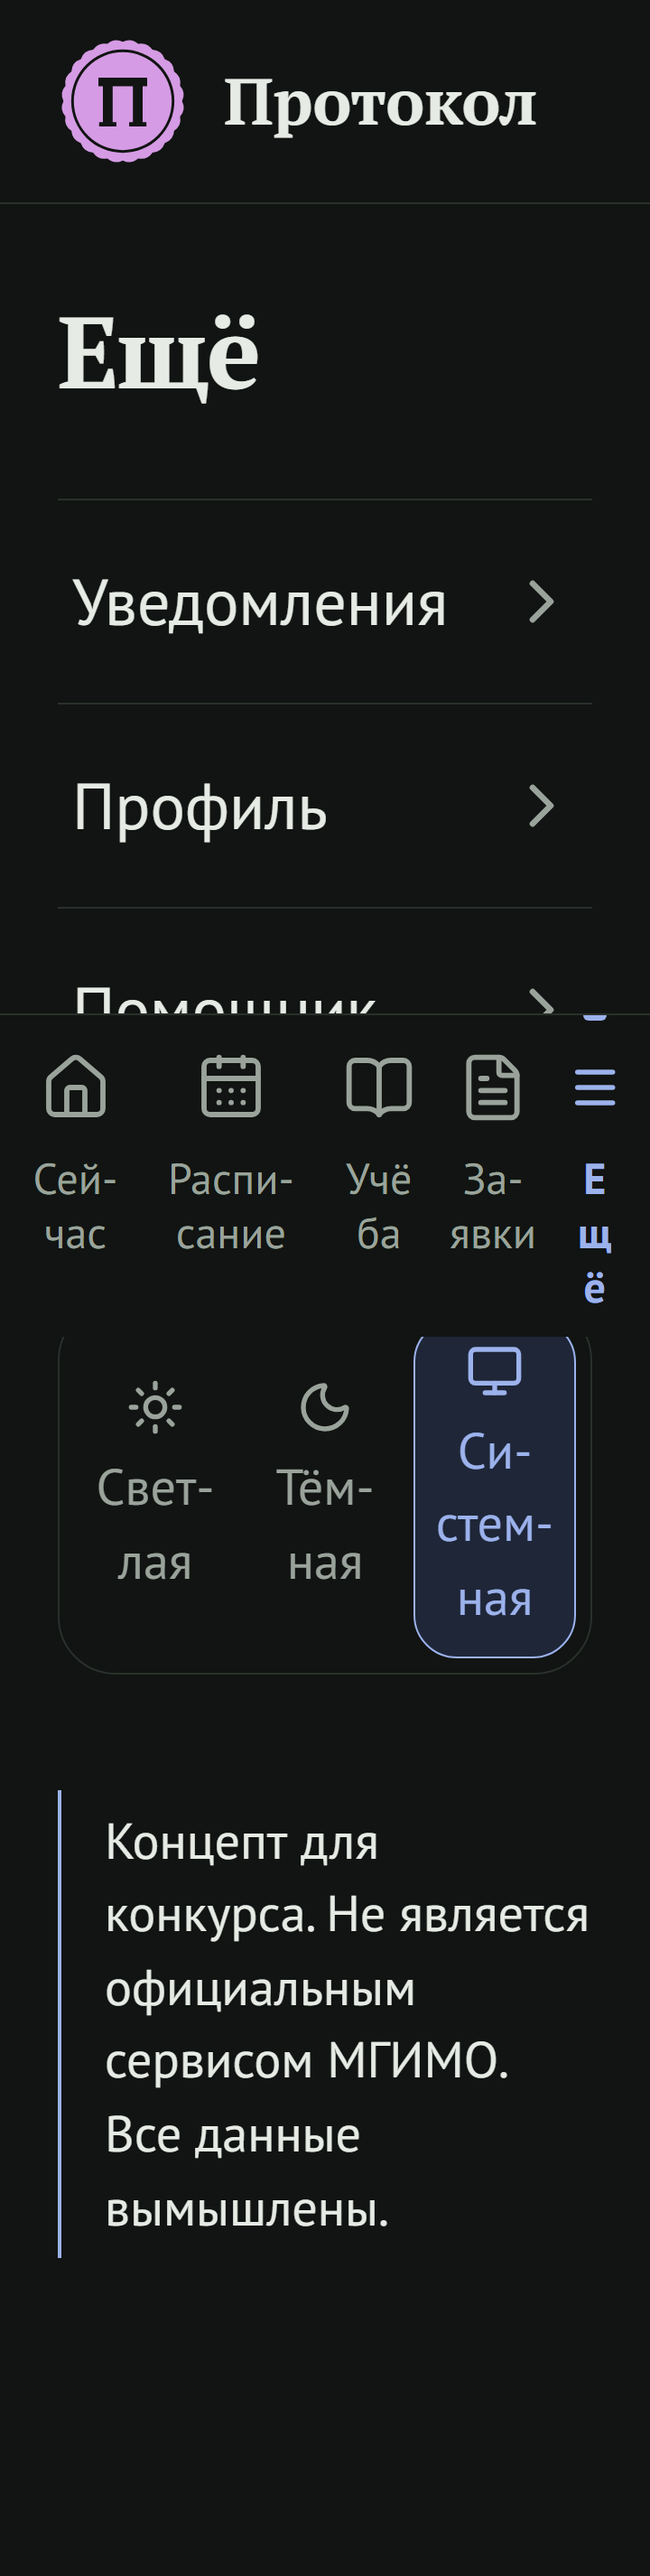
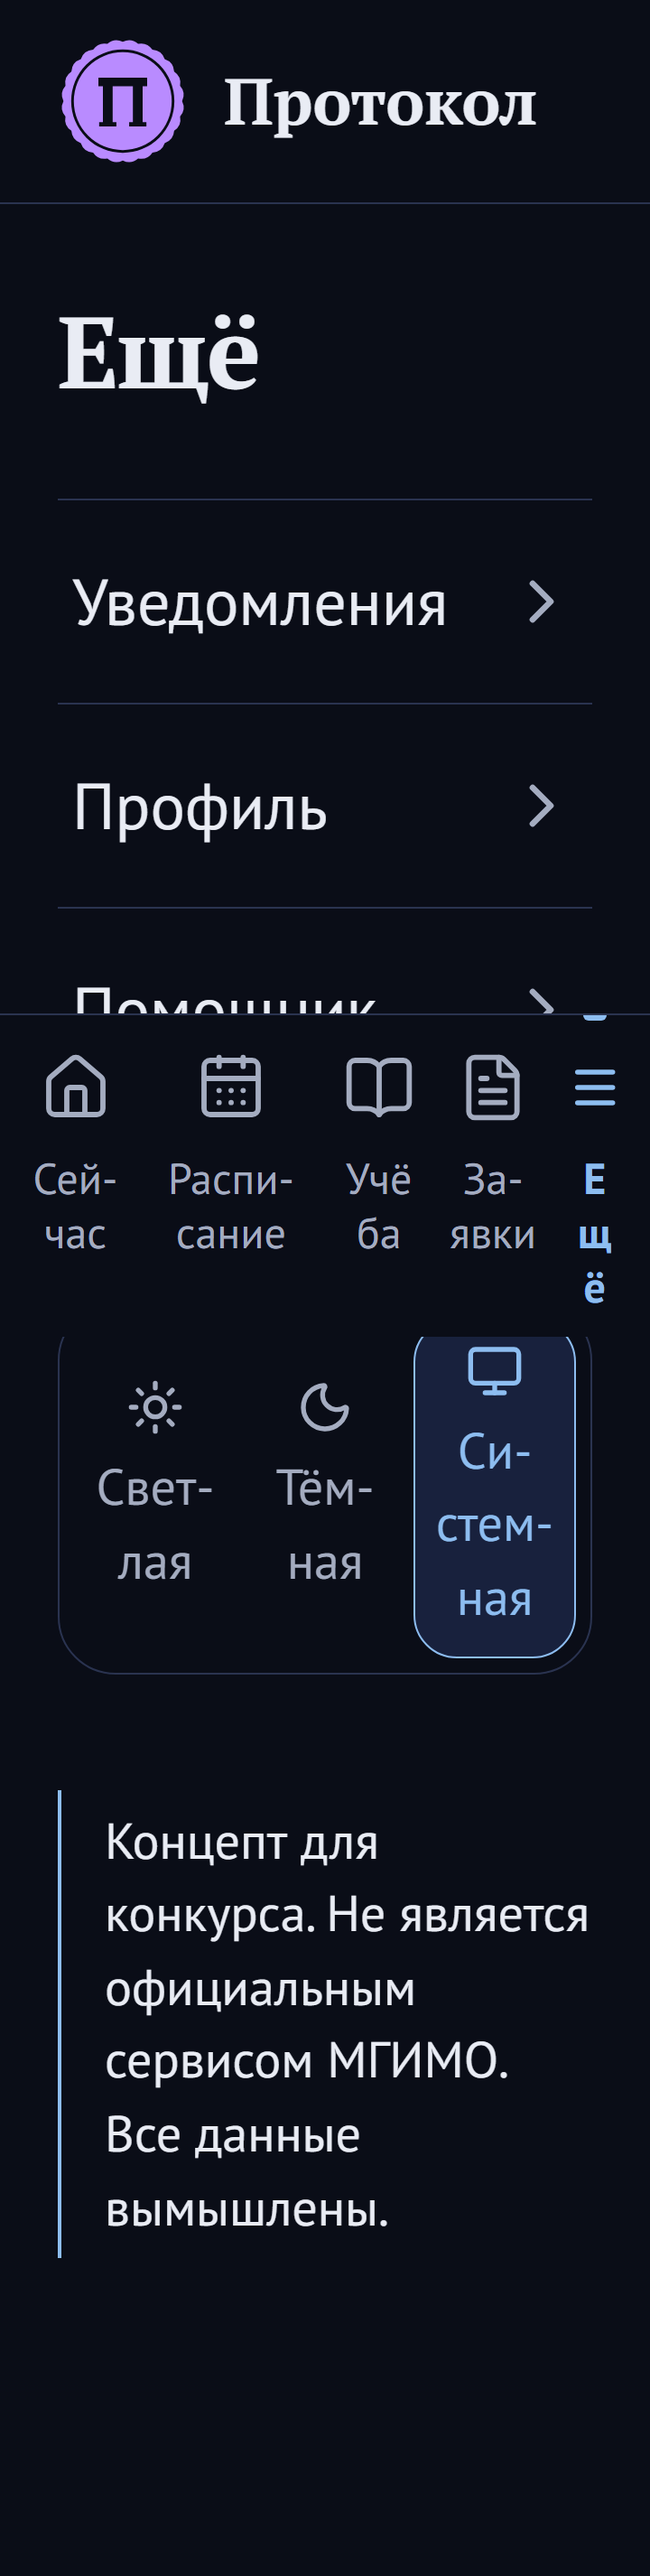
docs: тёмная тема «Чернила ночью» в 04-design, варианты тёмной темы, журнал

diff --git a/docs/04-design.md b/docs/04-design.md
@@ -6,21 +6,21 @@
 
 ## Токены (CSS-переменные в `src/app/globals.css`, Tailwind v4 `@theme`)
 
-Палитра **«Бланк»** (решение человека 06.11, взамен «бумага-крем + винная печать»; прежние значения — в истории git и на `docs/process/screenshots/04-T04-palette-variants.png`). Холодная бумага бланка, чернила, фиолетовая штемпельная печать — как на настоящих справках.
+Палитра **«Бланк»** (решение человека 06.11, взамен «бумага-крем + винная печать»; прежние значения — в истории git и на `docs/process/screenshots/04-T04-palette-variants.png`). Холодная бумага бланка, чернила, фиолетовая штемпельная печать — как на настоящих справках. Тёмная тема — **«Чернила ночью»** (решение человека 06.11): глубокий чернильно-синий фон и бумажно-белый текст — те же бланк и чернила, только наоборот; темнее, но контраст выше, чем в светлой (минимум текста 6.2:1), линии и рамки полей видны отчётливее.
 
 | Токен | Светлая | Тёмная | Назначение |
 |---|---|---|---|
-| `--bg` | `#EEF1EC` (бумага бланка) | `#111412` | фон страницы |
-| `--surface` | `#FBFCFA` | `#1A1E1B` | карточки, поля ввода |
-| `--ink` | `#161A17` | `#E7EBE5` | основной текст |
-| `--muted` | `#5B635C` | `#9AA39B` | вторичный текст (в коде — `--ink-muted`) |
-| `--line` | `#D6DBD2` | `#2A302B` | границы |
-| `--brand` | `#22356B` (чернила) | `#9CB2EC` | акцент, активные элементы |
-| `--brand-soft` | `#E1E7F2` | `#1E2638` | фон акцентных плашек |
-| `--ok` | `#2A7348` | `#5CC48A` | зачтено, готово |
-| `--warn` | `#8A5300` | `#F0B14A` | перенос, риск |
-| `--danger` | `#AE2620` | `#F2867E` | отмена, долг |
-| `--seal` | `#55389A` (штемпельные чернила) | `#D59BE4` | печать: только логотип и статус «Выдана». Фиолетовая, чтобы «Выдана» не путалась с ошибкой: прежняя винная печать почти совпадала с `--danger` |
+| `--bg` | `#EEF1EC` (бумага бланка) | `#0A0D17` | фон страницы |
+| `--surface` | `#FBFCFA` | `#121726` | карточки, поля ввода |
+| `--ink` | `#161A17` | `#E9ECF4` | основной текст |
+| `--muted` | `#5B635C` | `#A4ACC0` | вторичный текст (в коде — `--ink-muted`) |
+| `--line` | `#D6DBD2` | `#2A3350` | границы |
+| `--brand` | `#22356B` (чернила) | `#8DBDF0` | акцент, активные элементы |
+| `--brand-soft` | `#E1E7F2` | `#18213D` | фон акцентных плашек |
+| `--ok` | `#2A7348` | `#62C893` | зачтено, готово |
+| `--warn` | `#8A5300` | `#F2B655` | перенос, риск |
+| `--danger` | `#AE2620` | `#F48C84` | отмена, долг |
+| `--seal` | `#55389A` (штемпельные чернила) | `#B98BFF` | печать: только логотип и статус «Выдана». Фиолетовая, чтобы «Выдана» не путалась с ошибкой: прежняя винная печать почти совпадала с `--danger` |
 
 Контраст текста ≥ 4.5:1 для всех пар, включая текст на `--brand-soft` (проверяют `tests/unit/contrast.test.ts` и `ux-reviewer`). Цвет никогда не единственный носитель смысла — всегда + иконка/текст.
 
@@ -72,7 +72,7 @@
 
 ## Реализация (T04)
 - **Шкала** — на стандартных именах Tailwind (rem, в `@theme`, остальные размеры отключены): `text-xs` 12, `text-sm` 14, `text-base` 16, `text-lg` 18, `text-xl` 22, `text-2xl` 28, `text-3xl` 36. Свои имена (`text-body` и т. п.) не заводить: `cn` (tailwind-merge) принимает их за цвет и выкидывает вместе с `text-ink` — держит `tests/unit/typography.test.ts`. Заголовок экрана — `PageHeader`: `text-2xl`, на ≥ 1024 — `text-3xl`.
-- **Пары на `--brand-soft`:** в палитре «Бланк» все цвета текста на нём ≥ 4.5:1 (прежний запрет на `--ink-muted` и `--ok` снят); `tests/unit/contrast.test.ts` проверяет все пары в обеих темах и что `--seal` далеко от `--danger`.
+- **Пары на `--brand-soft`:** в палитре «Бланк» все цвета текста на нём ≥ 4.5:1 (прежний запрет на `--ink-muted` и `--ok` снят); `tests/unit/contrast.test.ts` проверяет все пары в обеих темах и различимость печати от ошибки и акцента (ΔE в OKLab: ≥ 15 и ≥ 10).
 - **Тема:** cookie `theme`, класс `.light`/`.dark` на `<html>` ставит сервер; переключатель «Светлая / Тёмная / Системная» — в сайдбаре и на «Ещё».
 - **Компоненты** (`src/components/`): `PageHeader`, `StatusChip` (тон + иконка + текст), `EmptyState`, `ErrorState`, skeleton-набор (`skeletons.tsx`), `ConceptBanner` в `SiteFooter`, `LogoSeal`, `BrandMark`, `ThemeSwitcher`, навигация в `nav/`. Витрина — `/dev/ui` (только `pnpm dev`).
 - **Кнопки** (`ui/button.tsx`): по умолчанию 44px, `lg` 48px; `sm`/`icon-sm` (36px) — только для плотных десктопных таблиц.

diff --git a/docs/process/journal.md b/docs/process/journal.md
@@ -103,3 +103,9 @@
 **Внедрение «Бланка»:** токены в `globals.css` (обе темы), PT Serif 700 + PT Sans 400/700 через `next/font` (без npm-пакетов), значок сайта и `theme-color`, кнопки — полужирные (у PT Sans нет 500). Проверено в браузере: цифры PT Sans одной ширины по умолчанию (риск для расписания снят). В новой палитре все цвета текста ≥ 4.5:1 и на `--brand-soft` — прежний запрет снят, тест теперь проверяет все пары и что печать далеко от цвета ошибки. Обновлены `04-design.md`, лицензии в `03-architecture.md`, шрифты для PDF в T10. Unit 111, e2e 87 — зелёные.
 **Скриншоты:** `screenshots/04-T04-palette-variants.png` (варианты), «после» — `screenshots/04-T04-*.png`.
 
+### 06.11 — T04: тёмная тема «Чернила ночью»
+**Задача (промпт):** > «Тёмная тема выглядит странновато, мне неоч нравится подбор цветов для тёмной темы»; после трёх вариантов на выбор — > «Давай один, но сделай её чуть темнее, чтобы на ней всё было также интуитивно понятно и видно как на бланке».
+**Что сделал ИИ:** собрал три варианта тёмной темы («Чернила ночью», «Графит», «Копирка») рядом с текущей (`screenshots/04-T04-dark-variants.png`). По выбору человека внедрил первый, темнее: фон `#0A0D17`, текст и линии светлее, чтобы ясность не потерялась — минимальный контраст текста 6.2:1 (в светлой теме 4.64), линии на фоне 1.56 (в светлой 1.23). Печать подобрана в OKLab: от акцента ΔE 14.1 (было ≈ 9 — ревьюер отметил, что «Выдана» почти сливалась с «В работе»), от ошибки 20.2. Тест различимости переведён с RGB на OKLab и проверяет, что прежняя тёмная печать его бы не прошла.
+**Попутно по ревью «Бланка»:** «М.П.» и скелетон заголовка давали горизонтальный скролл при тексте 200% (новый e2e на 5 маршрутах поймал второй случай); `font-medium` молча рисовался 400 — убран.
+**Вручную:** выбор тёмной темы и просьба сделать её темнее.
+
